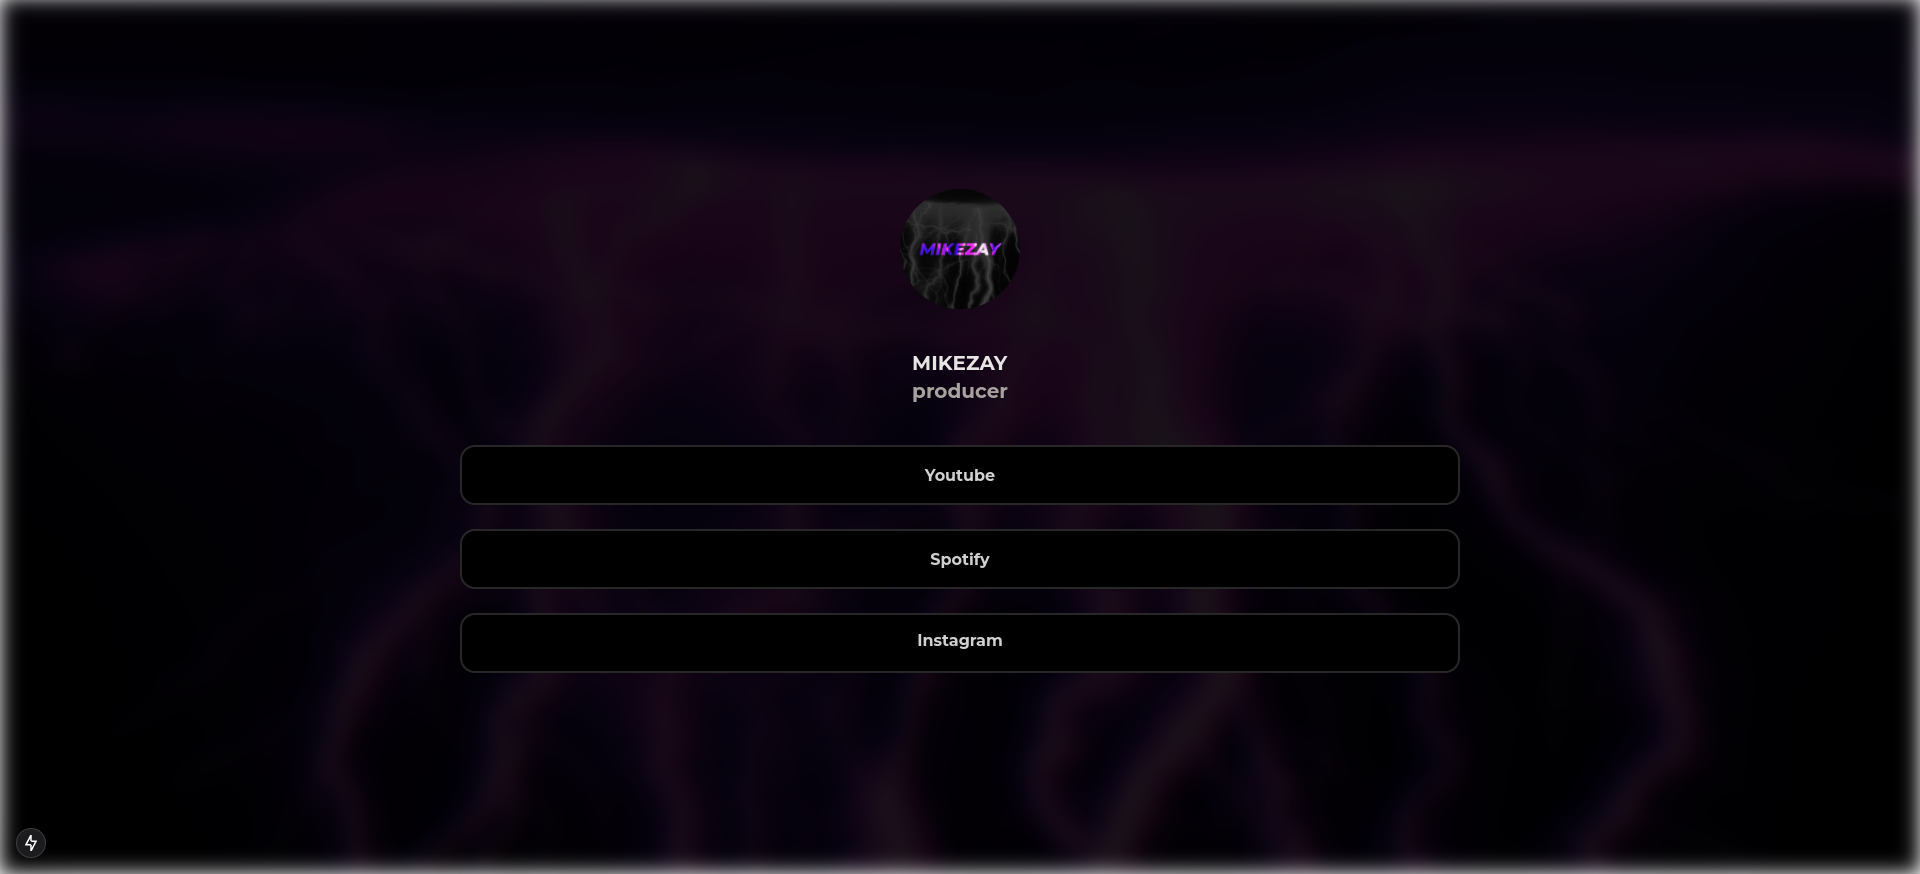
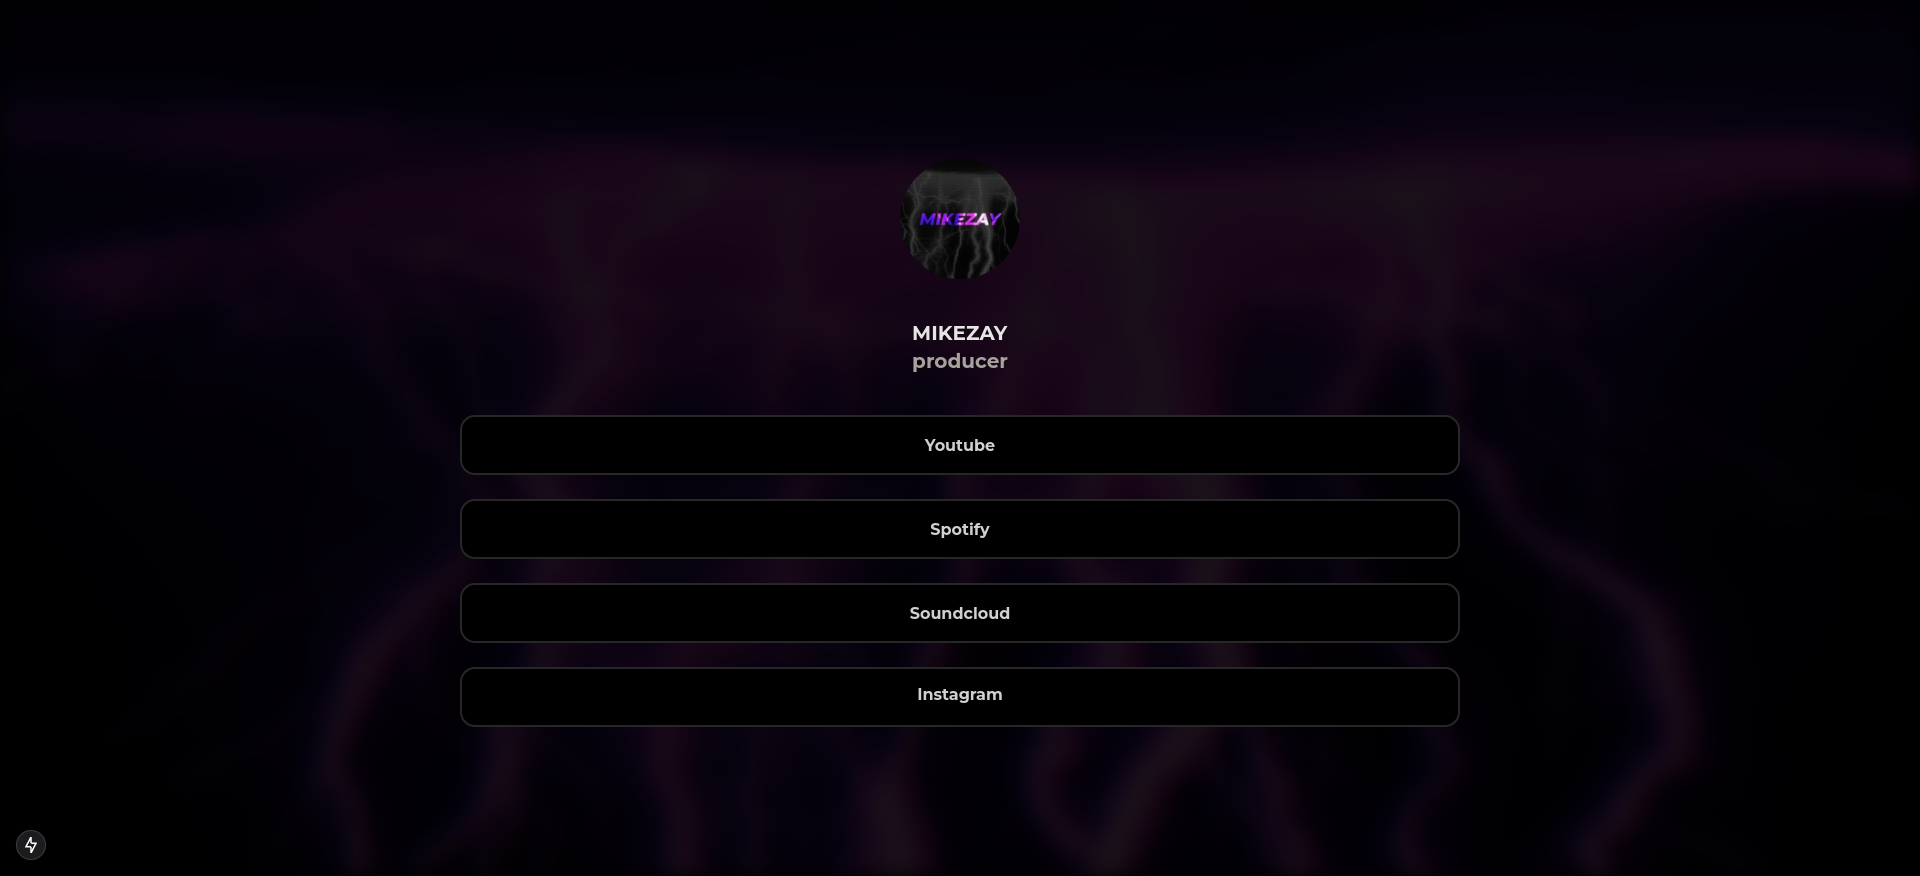
styling and soundcloud button

diff --git a/webpage/app/page.tsx b/webpage/app/page.tsx
@@ -12,7 +12,7 @@ import {
 
 export default function Home() {
   return (
-    <div className='pt-48'>
+    <div className='pt-40'>
         <Image 
           src={"/banner.jpg"}
           alt="background"
@@ -40,7 +40,7 @@ export default function Home() {
 
           <Popover>
             <PopoverTrigger className='button-27'>Youtube</PopoverTrigger>
-            <PopoverContent className='bg-black'>
+            <PopoverContent className='bg-black border-gray-800 rounded-3xl'>
               <div className='justify-items-center'>
                       <iframe src="https://www.youtube.com/embed/DQDaSLIRsKI" width="640" height="360"/>
               </div>
@@ -49,11 +49,21 @@ export default function Home() {
 
           <Popover>
             <PopoverTrigger className='button-27'>Spotify</PopoverTrigger>
-            <PopoverContent className='bg-black'> 
+            <PopoverContent className='bg-black border-gray-800 rounded-3xl'> 
               <div>
-                <iframe src="https://open.spotify.com/embed/artist/5b5IWd6FFzq9Ij6etGsktH?utm_source=generator" width="100%" height="400" 
-                    frameBorder="0" allow="autoplay; clipboard-write; encrypted-media; fullscreen; picture-in-picture" loading="lazy"></iframe>
+                <iframe src="https://open.spotify.com/embed/artist/5b5IWd6FFzq9Ij6etGsktH?utm_source=generator" width="500" height="400"
+                allow="autoplay; clipboard-write; encrypted-media; fullscreen; picture-in-picture" loading="lazy"></iframe>
               </div>
+            </PopoverContent>
+          </Popover>
+
+          <Popover>
+            <PopoverTrigger className='button-27'>Soundcloud</PopoverTrigger>
+            <PopoverContent className='bg-black border-gray-800 rounded-3xl'> 
+              <iframe width="500" height="300" allow="autoplay" 
+              src="https://w.soundcloud.com/player/?url=https%3A//api.soundcloud.com/tracks/1977936351&color=%23ff5500&auto_play=false&hide_related=false&show_comments=true&show_user=true&show_reposts=false&show_teaser=true&visual=true"> 
+              </iframe>
+
             </PopoverContent>
           </Popover>
 

diff --git a/webpage/app/layout.tsx b/webpage/app/layout.tsx
@@ -8,8 +8,8 @@ const montserrat = Montserrat({
 });
 
 export const metadata: Metadata = {
-  title: "My page",
-  description: "test",
+  title: "linktree",
+  description: "linktree",
 };
 
 export default function RootLayout({

diff --git a/webpage/app/globals.css b/webpage/app/globals.css
@@ -2,6 +2,9 @@
 @tailwind components;
 @tailwind utilities;
 
+body {
+  background-color: black;
+}
 
 .background {
   background-image: url("/banner.jpg");
